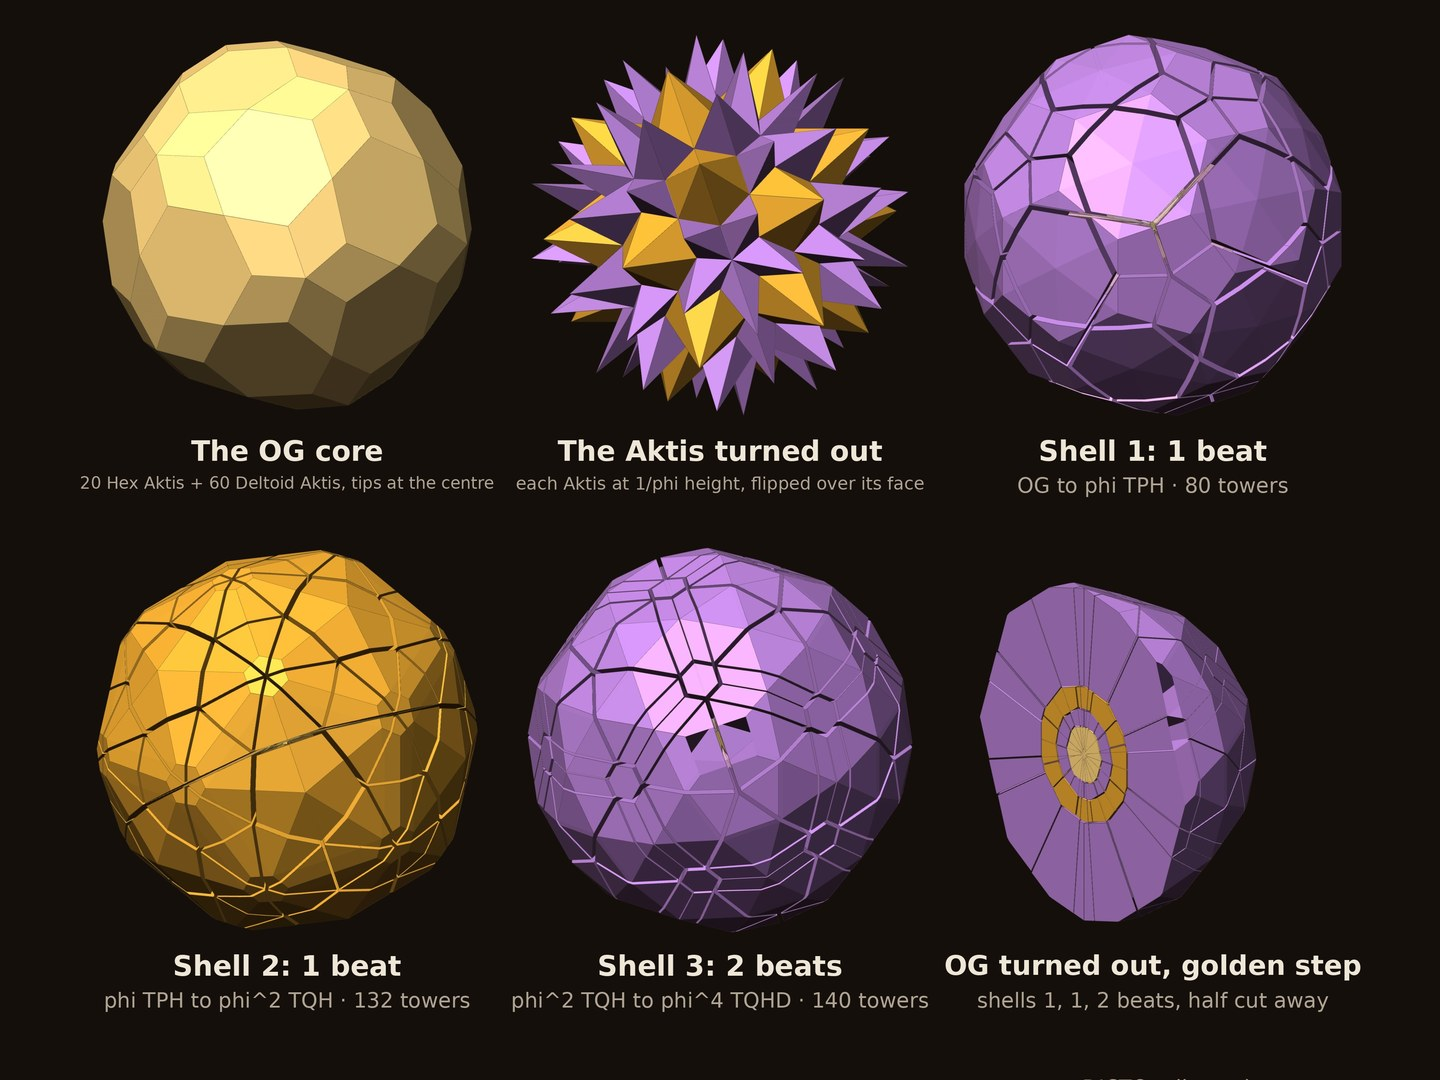
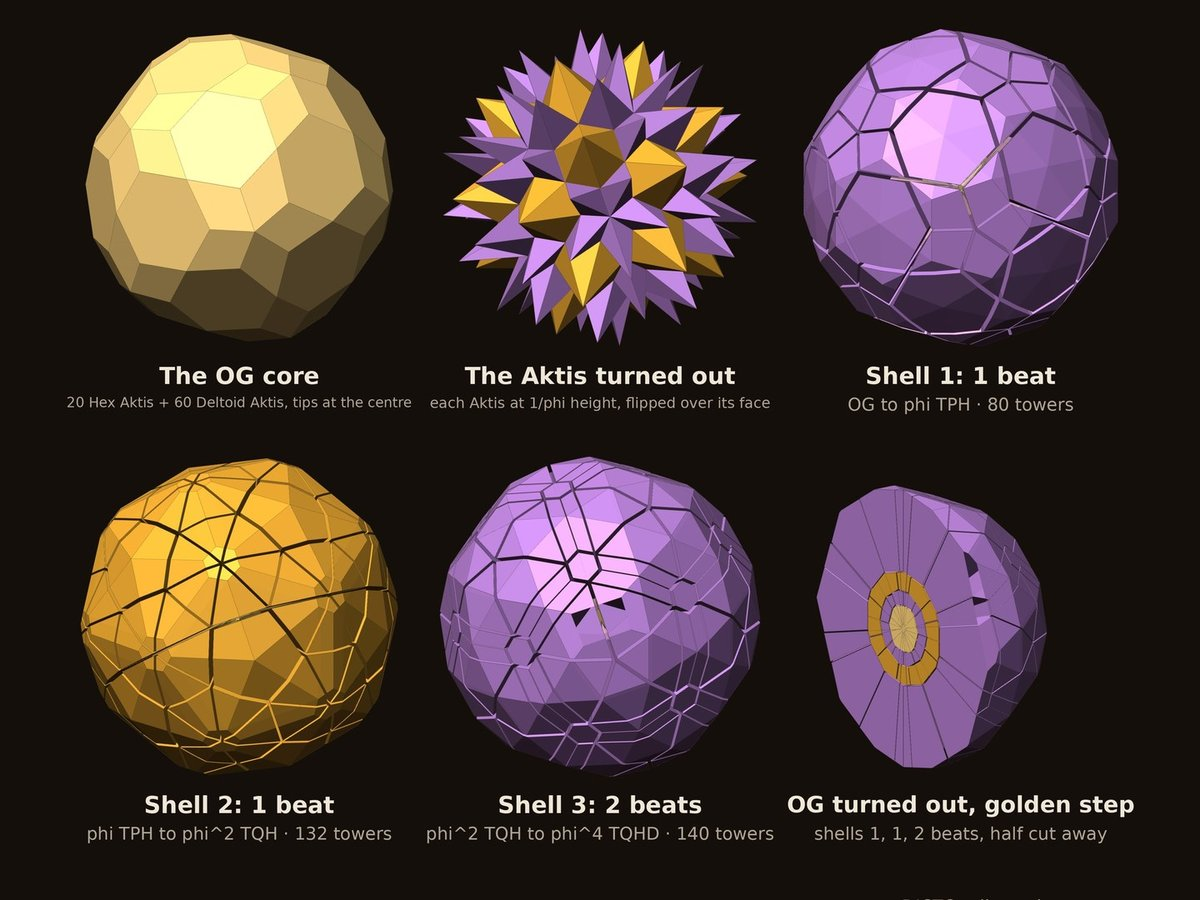
Home page: shrink the three largest card pictures to 1200 px (0.79 MB → 0.44 MB) for faster loading on phones

diff --git a/index.html b/index.html
@@ -152,14 +152,14 @@
     <p class="disc-note">Short papers by DICTO, with the checks behind every claim.</p>
     <div class="papers">
       <div class="paper feature"><img src="papers/vajrayana.jpg?v=3" alt="Vajrayana: the Cleo star build pulled apart, assembled inside the dodecahedron D′, and in the cycle; below, the twelve stations of the golden cycle at true scale" loading="eager" width="1776" height="999"><span class="t"><span class="num">#35</span> Vajrayana</span><span class="s">A companion to Progenitors. The dodecahedron returns inside the golden cycle as the hull of DICTO's Cleo star, filled exactly by 82 pieces of four kinds. The last loose step, from the rhombic triacontahedron to the next icosahedron, is closed by a new solid that touches both, the DICTO Metaxyhexecontahedron, each of its two layers one kind of piece. The cycle grows to twelve stations. Exact in every step.</span><span class="pdoi"><a class="doi-badge" href="https://doi.org/10.5281/zenodo.23429911" title="DICTO DOI, always the newest version"><span>DICTO DOI</span><span>10.5281/zenodo.23429911</span></a></span><span class="btns"><a class="btn" href="https://doi.org/10.5281/zenodo.23429911">Read paper</a><a class="btn" href="https://kaleidohedra.dictospheres.com/?open=vajrayana">View in app</a></span></div>
-      <div class="paper"><img src="papers/kyushindo-cores.jpg?v=1" alt="DICTO Kyushindo Cores: the OG core, its 80 Aktis turned out at the golden step, and the shells of towers round it" loading="lazy" width="1440" height="1080"><span class="t"><span class="num">#43</span> DICTO Kyushindo Cores</span><span class="s">Towers and spires round exact cores in Fibonacci beats: Cleo Towers, the OG core of 80 Aktis, the OTT rays, and the OG turned out at the golden step. Proved: every icosahedral solid sits inside φ times its foot-point hull, so the golden tower nests for ever. With seven new solids, DICTO's ribbons and the full tower catalogue.</span><span class="pdoi"><a class="doi-badge" href="https://zenodo.org/records/23532014" title="DICTO DOI, always the newest version"><span>DICTO DOI</span><span>10.5281/zenodo.23532013</span></a></span><span class="btns"><a class="btn" href="https://zenodo.org/records/23532014">Read paper</a></span></div>
+      <div class="paper"><img src="papers/kyushindo-cores.jpg?v=2" alt="DICTO Kyushindo Cores: the OG core, its 80 Aktis turned out at the golden step, and the shells of towers round it" loading="lazy" width="1200" height="900"><span class="t"><span class="num">#43</span> DICTO Kyushindo Cores</span><span class="s">Towers and spires round exact cores in Fibonacci beats: Cleo Towers, the OG core of 80 Aktis, the OTT rays, and the OG turned out at the golden step. Proved: every icosahedral solid sits inside φ times its foot-point hull, so the golden tower nests for ever. With seven new solids, DICTO's ribbons and the full tower catalogue.</span><span class="pdoi"><a class="doi-badge" href="https://zenodo.org/records/23532014" title="DICTO DOI, always the newest version"><span>DICTO DOI</span><span>10.5281/zenodo.23532013</span></a></span><span class="btns"><a class="btn" href="https://zenodo.org/records/23532014">Read paper</a></span></div>
       <div class="paper"><img src="papers/stretching-theorem.jpg?v=1" alt="The DICTO stretched solids: the dodecahedron stretched one edge-length along five directions" loading="lazy" width="1440" height="1080"><span class="t"><span class="num">#49</span> The Polyhedral Stretching Theorem</span><span class="s">Slide any solid with equal edges one edge-length in a straight line, and the shape it sweeps through still has every edge the same length, unless the slide runs along one of its edges. Proved, and applied to the dodecahedron: DICTO's stretched solids, including the member that began as a long hexagon DICTO saw in #47, three- and four-cap forms, and a new-looking stretched icosahedron family. Printable nets and a telescoping paper model attached.</span><span class="pdoi"><a class="doi-badge" href="https://doi.org/10.5281/zenodo.23566671" title="DICTO DOI, always the newest version"><span>DICTO DOI</span><span>10.5281/zenodo.23566671</span></a></span><span class="btns"><a class="btn" href="https://doi.org/10.5281/zenodo.23566671">Read paper</a></span></div>
       <div class="paper"><img src="papers/platonic-mixes.jpg?v=1" alt="Every mix of the Platonic solids fills space: the layers stacked, and the seven helper pieces" loading="lazy" width="1440" height="1080"><span class="t"><span class="num">#47</span> Every Mix of the Platonic Solids Fills Space</span><span class="s">DICTO's idea: connect the Platonic solids in any combination. Proved: every one of the 31 mixes of D·I·C·T·O (dodecahedron, icosahedron, cube, tetrahedron, octahedron), all at one edge length, fills space with only seven helper pieces, among them DICTO's Admiral Caps and the Dogstar. The proof is a layer cake: one flat layer per solid, stacked.</span><span class="pdoi"><a class="doi-badge" href="https://doi.org/10.5281/zenodo.23551326" title="DICTO DOI, always the newest version"><span>DICTO DOI</span><span>10.5281/zenodo.23551326</span></a></span><span class="btns"><a class="btn" href="https://doi.org/10.5281/zenodo.23551326">Read paper</a><a class="btn" href="https://kaleidohedra.dictospheres.com/?open=platonicMix">View in app</a></span></div>
       <div class="paper"><img src="papers/reuleaux-platonic.jpg?v=1" alt="The five Reuleaux Platonic solids, named by their look: Reuleaux tetrahedron, octahedron, cube, icosahedron and dodecahedron" loading="lazy" width="1440" height="1080"><span class="t"><span class="num">#45</span> The Reuleaux Platonic Solids</span><span class="s">DICTO's idea: a ball on every corner of a Platonic solid, as wide as the solid. Proved: the narrowest width is exactly the solid's span, and along each face axis the width has one exact formula, so the cube and octahedron give the same value, and so do the dodecahedron and icosahedron.</span><span class="pdoi"><a class="doi-badge" href="https://doi.org/10.5281/zenodo.23529499" title="DICTO DOI, always the newest version"><span>DICTO DOI</span><span>10.5281/zenodo.23529499</span></a></span><span class="btns"><a class="btn" href="https://doi.org/10.5281/zenodo.23529499">Read paper</a><a class="btn" href="https://kaleidohedra.dictospheres.com/?open=reuleaux">View in app</a></span></div>
       <div class="paper"><img src="papers/aristotles-pyramid.jpg?v=1" alt="The five face pyramids of the Platonic solids, each cut from the centre over one face" loading="lazy" width="1440" height="1080"><span class="t"><span class="num">#44</span> Aristotle's Pyramid</span><span class="s">Aristotle said the pyramid and the cube fill space. Proved: of the five Platonic face pyramids, only the cube's alone, or the tetrahedron's with the octahedron's, can fill space; the dodecahedron's and the Cleo-Icos never can. The golden fix: Cleo-Icos with Antonius.</span><span class="pdoi"><a class="doi-badge" href="https://doi.org/10.5281/zenodo.23529497" title="DICTO DOI, always the newest version"><span>DICTO DOI</span><span>10.5281/zenodo.23529497</span></a></span><span class="btns"><a class="btn" href="https://doi.org/10.5281/zenodo.23529497">Read paper</a><a class="btn" href="https://kaleidohedra.dictospheres.com/?open=aristotle">View in app</a></span></div>
       <div class="paper"><img src="papers/dicto-sunstar.jpg?v=1" alt="The Sunstar, the Star Chain Reaction, the DICTO Sunstar-Octa opened to show its Dogstar, and the DICTO Sunstar-Hexa with its Key" loading="lazy" width="1440" height="1080"><span class="t"><span class="num">#42</span> The DICTO Sunstar</span><span class="s">The Jewel's twin: regular dodecahedra and Dogstars fill space. The Dogstar pinned down exactly as a stellation, the Star Chain Reaction fitting with no room to spare, the Sunstar-Tetra, Sunstar-Octa and Sunstar-Rhombi, and the Sunstar-Hexa and its Key, all proved exactly.</span><span class="pdoi"><a class="doi-badge" href="https://doi.org/10.5281/zenodo.23497702" title="DICTO DOI, always the newest version"><span>DICTO DOI</span><span>10.5281/zenodo.23497702</span></a></span><span class="btns"><a class="btn" href="https://doi.org/10.5281/zenodo.23497702">Read paper</a><a class="btn" href="https://kaleidohedra.dictospheres.com/?open=sunstar">View in app</a></span></div>
       <div class="paper"><img src="papers/dicto-jewel.jpg?v=2" alt="The DICTO Jewel, the Stella–Jewel Lattice (gold Jewels, purple stellas), the DICTO Jewel-Tetra, and the DICTO Jewel-Octa opened to show its stella" loading="lazy" width="1440" height="1080"><span class="t"><span class="num">#41</span> The DICTO Jewel</span><span class="s">Euclid's dodecahedron carved by its neighbours' stellas: twelve Penrose windows, volume exactly 3/16 of a Hexa's cube, and with stellas it fills space. The Jewel-Tetra, Jewel-Octa and Jewel-Rhombi as single solids, every way they tile with loose stellas, the octet pattern, and the Hexa and Hexa-Key, all proved exactly.</span><span class="pdoi"><a class="doi-badge" href="https://doi.org/10.5281/zenodo.23496353" title="DICTO DOI, always the newest version"><span>DICTO DOI</span><span>10.5281/zenodo.23496353</span></a></span><span class="btns"><a class="btn" href="https://doi.org/10.5281/zenodo.23496353">Read paper</a><a class="btn" href="https://kaleidohedra.dictospheres.com/?open=stellaJewel">View in app</a></span></div>
-      <div class="paper"><img src="papers/og-polytypes.jpg?v=1" alt="The DICTO OG Family on Every Stacking: OGs on the 3C, 2H, 6H and Fibonacci stackings, mirror twins in blue" loading="lazy" width="1440" height="1080"><span class="t"><span class="num">#40</span> The DICTO OG Family on Every Stacking</span><span class="s">The OG on every stacking: one exact kit builds the octet, the gyrated octet, the classical polytypes and a Fibonacci crystal that never repeats. Two short rules say why: the twin rule (the mirror twin is the solid turned 60°, the spinel law) and the fit rule (a solid that stays in its layer fits every stacking). The DBT fits every stacking; its two flat cuts are exactly what the golden envelope lacks.</span><span class="pdoi"><a class="doi-badge" href="https://doi.org/10.5281/zenodo.23490114" title="DICTO DOI, always the newest version"><span>DICTO DOI</span><span>10.5281/zenodo.23490114</span></a></span><span class="btns"><a class="btn" href="https://doi.org/10.5281/zenodo.23490114">Read paper</a><a class="btn" href="https://kaleidohedra.dictospheres.com/?open=octetTruss:gyrated">View in app</a></span></div>
+      <div class="paper"><img src="papers/og-polytypes.jpg?v=2" alt="The DICTO OG Family on Every Stacking: OGs on the 3C, 2H, 6H and Fibonacci stackings, mirror twins in blue" loading="lazy" width="1200" height="900"><span class="t"><span class="num">#40</span> The DICTO OG Family on Every Stacking</span><span class="s">The OG on every stacking: one exact kit builds the octet, the gyrated octet, the classical polytypes and a Fibonacci crystal that never repeats. Two short rules say why: the twin rule (the mirror twin is the solid turned 60°, the spinel law) and the fit rule (a solid that stays in its layer fits every stacking). The DBT fits every stacking; its two flat cuts are exactly what the golden envelope lacks.</span><span class="pdoi"><a class="doi-badge" href="https://doi.org/10.5281/zenodo.23490114" title="DICTO DOI, always the newest version"><span>DICTO DOI</span><span>10.5281/zenodo.23490114</span></a></span><span class="btns"><a class="btn" href="https://doi.org/10.5281/zenodo.23490114">Read paper</a><a class="btn" href="https://kaleidohedra.dictospheres.com/?open=octetTruss:gyrated">View in app</a></span></div>
       <div class="paper"><img src="papers/og-family.jpg?v=1" alt="The DICTO OG Family: four solids down (DICTO TQHD, TQP, TQH, TPH), the OG, and four up (DICTO KRE, PHE, TPP, DPHP), true relative size" loading="lazy" width="1440" height="1080"><span class="t"><span class="num">#39</span> The DICTO OG Family</span><span class="s">Four Steps Up and Four Down. Universal PiTet's step run from the Ogdoecontahedron, outward and in reverse: eight new icosahedral solids, the DICTO KRE, PHE, TPP and DPHP up and the DICTO TPH, TQH, TQP and TQHD down, all exact. Near the OG the shells nest and are filled exactly by one piece per face; then both directions break the same way, 60 corners poking through.</span><span class="pdoi"><a class="doi-badge" href="https://doi.org/10.5281/zenodo.23488944" title="DICTO DOI, always the newest version"><span>DICTO DOI</span><span>10.5281/zenodo.23488944</span></a></span><span class="btns"><a class="btn" href="https://doi.org/10.5281/zenodo.23488944">Read paper</a><a class="btn" href="https://kaleidohedra.dictospheres.com/?open=up:ogUp">View in app</a></span></div>
       <div class="paper"><img src="papers/universal-pitet.jpg?v=2" alt="Universal PiTet: one turn of the endless cycle cut away (icosidodecahedron, rhombic triacontahedron, DICTO GTI, DICTO FPD); the shells from the Cleo star; the five-sided Vajras; the hexagonal Cleos" loading="lazy" width="1440" height="1080"><span class="t"><span class="num">#38</span> Universal PiTet</span><span class="s">The DICTO PiTet Proposition. From the Cleo star outward in spherical shells: each new solid has its faces through the last one's corners, and the icosidodecahedron, rhombic triacontahedron, DICTO GTI and DICTO FPD return as the icosidodecahedron exactly 10/φ⁴ larger, for ever. The cycle is its own polar; every shell is filled by exact pieces, with five-sided Vajras and pure hexagonal Cleos on the way. Exact in every step.</span><span class="pdoi"><a class="doi-badge" href="https://doi.org/10.5281/zenodo.23463305" title="DICTO DOI, always the newest version"><span>DICTO DOI</span><span>10.5281/zenodo.23463305</span></a></span><span class="btns"><a class="btn" href="https://doi.org/10.5281/zenodo.23463305">Read paper</a><a class="btn" href="https://kaleidohedra.dictospheres.com/?open=up">View in app</a></span></div>
       <div class="paper"><img src="papers/kepler-poinsot-up.jpg?v=1" alt="The DICTO Kepler–Poinsot–UP Cycle: the great stellated dodecahedron (gold) in its clear dodecahedron, the small stellated dodecahedron (cyan) in its clear icosahedron, and both together" loading="lazy" width="1440" height="1080"><span class="t"><span class="num">#38a</span> The DICTO Kepler–Poinsot–UP Cycle</span><span class="s">The tall companion to Universal PiTet: Kepler's great and small stellated dodecahedra nested in an endless φ³ cycle. Every shell is filled exactly by the Cleo star's pattern, first with DICTO's CLEO, cap and AXE; the stars' points (φ², φ) are met by inward pyramids that are their golden reciprocals (1/φ², 1/φ). A short companion, exact in every number.</span><span class="pdoi"><a class="doi-badge" href="https://doi.org/10.5281/zenodo.23464021" title="DICTO DOI, always the newest version"><span>DICTO DOI</span><span>10.5281/zenodo.23464021</span></a></span><span class="btns"><a class="btn" href="https://doi.org/10.5281/zenodo.23464021">Read paper</a><a class="btn" href="https://kaleidohedra.dictospheres.com/?open=kpFilm">View in app</a></span></div>
@@ -171,7 +171,7 @@
       <div class="paper"><img src="papers/metaxyhexecontahedron.jpg?v=4" alt="The DICTO Metaxyhexecontahedron alone, and in the twelve-station golden cycle between the rhombic triacontahedron and the next icosahedron" loading="lazy" width="1440" height="1080"><span class="t"><span class="num">#35a</span> The DICTO Metaxyhexecontahedron</span><span class="s">The solid in the last gap of the golden cycle: the hull of an icosahedron and a dodecahedron whose edges stand exactly at 9/φ⁴. 60 triangles, an insphere, no midsphere; it touches the rhombic triacontahedron and the next icosahedron, each of its two layers one kind of piece. A short introduction, exact in every number.</span><span class="pdoi"><a class="doi-badge" href="https://doi.org/10.5281/zenodo.23430864" title="DICTO DOI, always the newest version"><span>DICTO DOI</span><span>10.5281/zenodo.23430864</span></a></span><span class="btns"><a class="btn" href="https://doi.org/10.5281/zenodo.23430864">Read paper</a><a class="btn" href="https://kaleidohedra.dictospheres.com/?open=vajrayana">View in app</a></span></div>
       <div class="paper"><img src="papers/palintriacontahedron.jpg?v=1" alt="The DICTO Palintriacontahedron: the icosidodecahedron star inside its hull X, and X interlocked with the next icosahedron" loading="lazy" width="1440" height="1080"><span class="t"><span class="num">#35b</span> The DICTO Palintriacontahedron</span><span class="s">The icosidodecahedron's own central pyramids flipped out at full height: the hull of the 32 tips has 60 triangles, each half a rhombic-dodecahedron rhombus, the rhombic triacontahedron turned inside out. It interlocks with the next icosahedron, bridging one turn of the golden cycle to the next. A short introduction, exact in every number.</span><span class="pdoi"><a class="doi-badge" href="https://doi.org/10.5281/zenodo.23430866" title="DICTO DOI, always the newest version"><span>DICTO DOI</span><span>10.5281/zenodo.23430866</span></a></span><span class="btns"><a class="btn" href="https://doi.org/10.5281/zenodo.23430866">Read paper</a><a class="btn" href="https://kaleidohedra.dictospheres.com/?open=vajrayana">View in app</a></span></div>
       <div class="paper feature"><img src="papers/progenitors.jpg" alt="Progenitors: the golden nine-station cycle with the Ogdoecontahedron in the dodecahedron's place, cut away and sliced through the centre" loading="eager" width="1776" height="999"><span class="t"><span class="num">#34</span> Progenitors</span><span class="s">The DICTO Hecatodihedron and Ogdoecontahedron as a twin pair. On their own they never close golden: tight nestings with their classical relatives are governed by 3. Set into the Spheres of Dharma in the dodecahedron's place, they close it again on φ⁹, and the cycle holds the core and hull of two dual compounds. Exact in every step.</span><span class="pdoi"><a class="doi-badge" href="https://doi.org/10.5281/zenodo.23413184" title="DICTO DOI, always the newest version"><span>DICTO DOI</span><span>10.5281/zenodo.23413184</span></a></span><span class="btns"><a class="btn" href="https://doi.org/10.5281/zenodo.23413184">Read paper</a><a class="btn" href="https://kaleidohedra.dictospheres.com/?open=vajrayana:hecatogdo">View in app</a></span></div>
-      <div class="paper feature"><img src="papers/double-vision.jpg" alt="Double Vision: the interlock of both cycles in its two settings, a slice removed to show the layers and the next turn inside" loading="eager" width="1920" height="1080"><span class="t"><span class="num">#33</span> Double Vision – Both Cycles in One Space</span><span class="s">The Spheres of Dharma and their inside-out reversal placed in one space. One sphere of reciprocation toggles which shells the two cycles share, and no sphere gives both settings. Cut against each other, the two cycles make one solid of convex pieces, exact in every piece: 536 pieces of 12 kinds per turn in one setting, 502 of 11 in the other.</span><span class="pdoi"><a class="doi-badge" href="https://doi.org/10.5281/zenodo.23407106" title="DICTO DOI, always the newest version"><span>DICTO DOI</span><span>10.5281/zenodo.23407106</span></a></span><span class="btns"><a class="btn" href="https://doi.org/10.5281/zenodo.23407106">Read paper</a><a class="btn" href="https://kaleidohedra.dictospheres.com/?open=doubleVision">View in app</a></span></div>
+      <div class="paper feature"><img src="papers/double-vision.jpg" alt="Double Vision: the interlock of both cycles in its two settings, a slice removed to show the layers and the next turn inside" loading="eager" width="1200" height="675"><span class="t"><span class="num">#33</span> Double Vision – Both Cycles in One Space</span><span class="s">The Spheres of Dharma and their inside-out reversal placed in one space. One sphere of reciprocation toggles which shells the two cycles share, and no sphere gives both settings. Cut against each other, the two cycles make one solid of convex pieces, exact in every piece: 536 pieces of 12 kinds per turn in one setting, 502 of 11 in the other.</span><span class="pdoi"><a class="doi-badge" href="https://doi.org/10.5281/zenodo.23407106" title="DICTO DOI, always the newest version"><span>DICTO DOI</span><span>10.5281/zenodo.23407106</span></a></span><span class="btns"><a class="btn" href="https://doi.org/10.5281/zenodo.23407106">Read paper</a><a class="btn" href="https://kaleidohedra.dictospheres.com/?open=doubleVision">View in app</a></span></div>
       <div class="paper feature"><img src="papers/inverted-shells.jpg" alt="Inverted Shells: the great stellated dodecahedron, the reversed Spheres of Dharma cut in half, and its endless core" loading="eager" width="1920" height="1080"><span class="t"><span class="num">#32</span> Inverted Shells: The Spheres of Dharma Turned Inside Out</span><span class="s">Polar reciprocation turns the Spheres of Dharma inside out into a new exact golden cycle, every layer filled by one kind of piece. The great stellated dodecahedron locks into its outer gap at exactly one size, a dual pair fits its inner gap in reverse order, and the cycle repeats inward without end.</span><span class="pdoi"><a class="doi-badge" href="https://doi.org/10.5281/zenodo.23405029" title="DICTO DOI, always the newest version"><span>DICTO DOI</span><span>10.5281/zenodo.23405029</span></a></span><span class="btns"><a class="btn" href="https://doi.org/10.5281/zenodo.23405029">Read paper</a><a class="btn" href="https://kaleidohedra.dictospheres.com/?open=doubleVision">View in app</a></span></div>
       <div class="paper feature"><img src="papers/ogdoecontahedron.jpg?v=2" alt="The DICTO Ogdoecontahedron in three views: oblique, a regular hexagon in the centre, and a five-fold corner where five kites meet" loading="eager" width="1920" height="1080"><span class="t"><span class="num">#31</span> The DICTO Ogdoecontahedron</span><span class="s">The Spheres of Dharma turned inside out: the polar dual of the Hecatodihedron, a convex solid of 20 regular hexagons and 60 kites, exact in every coordinate. Joined on its hexagons it forms pyrochlore networks and a body-centred cubic packing filling exactly 77.43% of space.</span><span class="pdoi"><a class="doi-badge" href="https://doi.org/10.5281/zenodo.23404688" title="DICTO DOI, always the newest version"><span>DICTO DOI</span><span>10.5281/zenodo.23404688</span></a></span><span class="btns"><a class="btn" href="https://doi.org/10.5281/zenodo.23404688">Read paper</a><a class="btn" href="https://kaleidohedra.dictospheres.com/?open=bodhiPyro">View in app</a></span></div>
       <div class="paper feature"><img src="papers/fibonacci-spine.jpg" alt="The five-fold chorus of Ogdoecontahedron packings seen down the five-fold axis: five voices in five colours, removed copies as ghosts" loading="eager" width="480" height="360"><span class="t"><span class="num">#30</span> A Fibonacci Spine</span><span class="s">Five periodic packings of the DICTO Ogdoecontahedron meet round a five-fold axis; with the central copy, the copies removed along the axis are exactly the canonical Fibonacci chain, checked exactly, until minimal removal thins it at height 12.8.</span><span class="pdoi"><a class="doi-badge" href="https://doi.org/10.5281/zenodo.23396361" title="DICTO DOI, always the newest version"><span>DICTO DOI</span><span>10.5281/zenodo.23396361</span></a></span><span class="btns"><a class="btn" href="https://doi.org/10.5281/zenodo.23396361">Read paper</a><a class="btn" href="https://kaleidohedra.dictospheres.com/?open=bodhiPyro:chorus">View in app</a></span></div>
